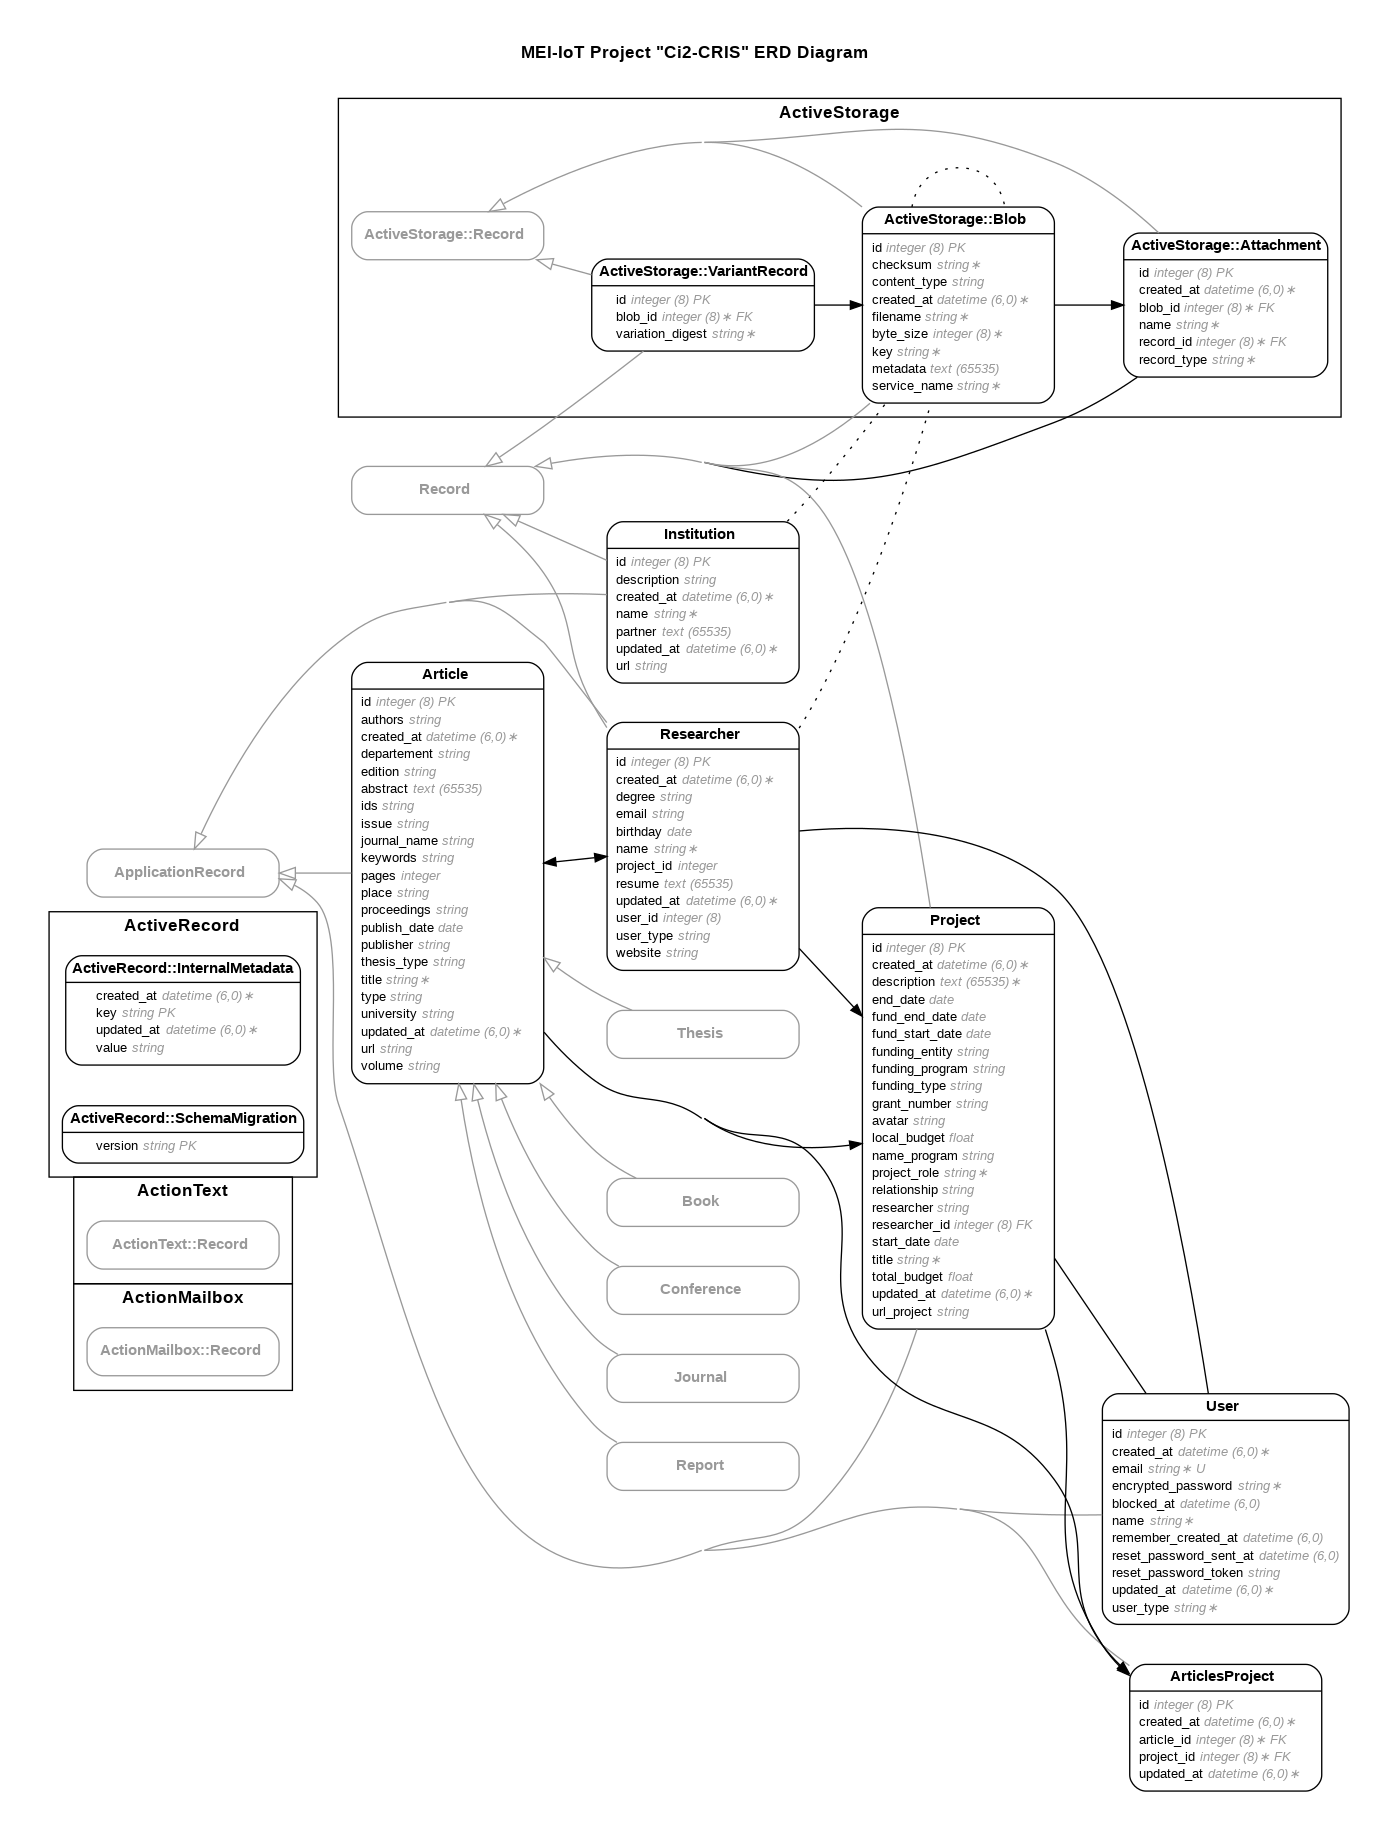
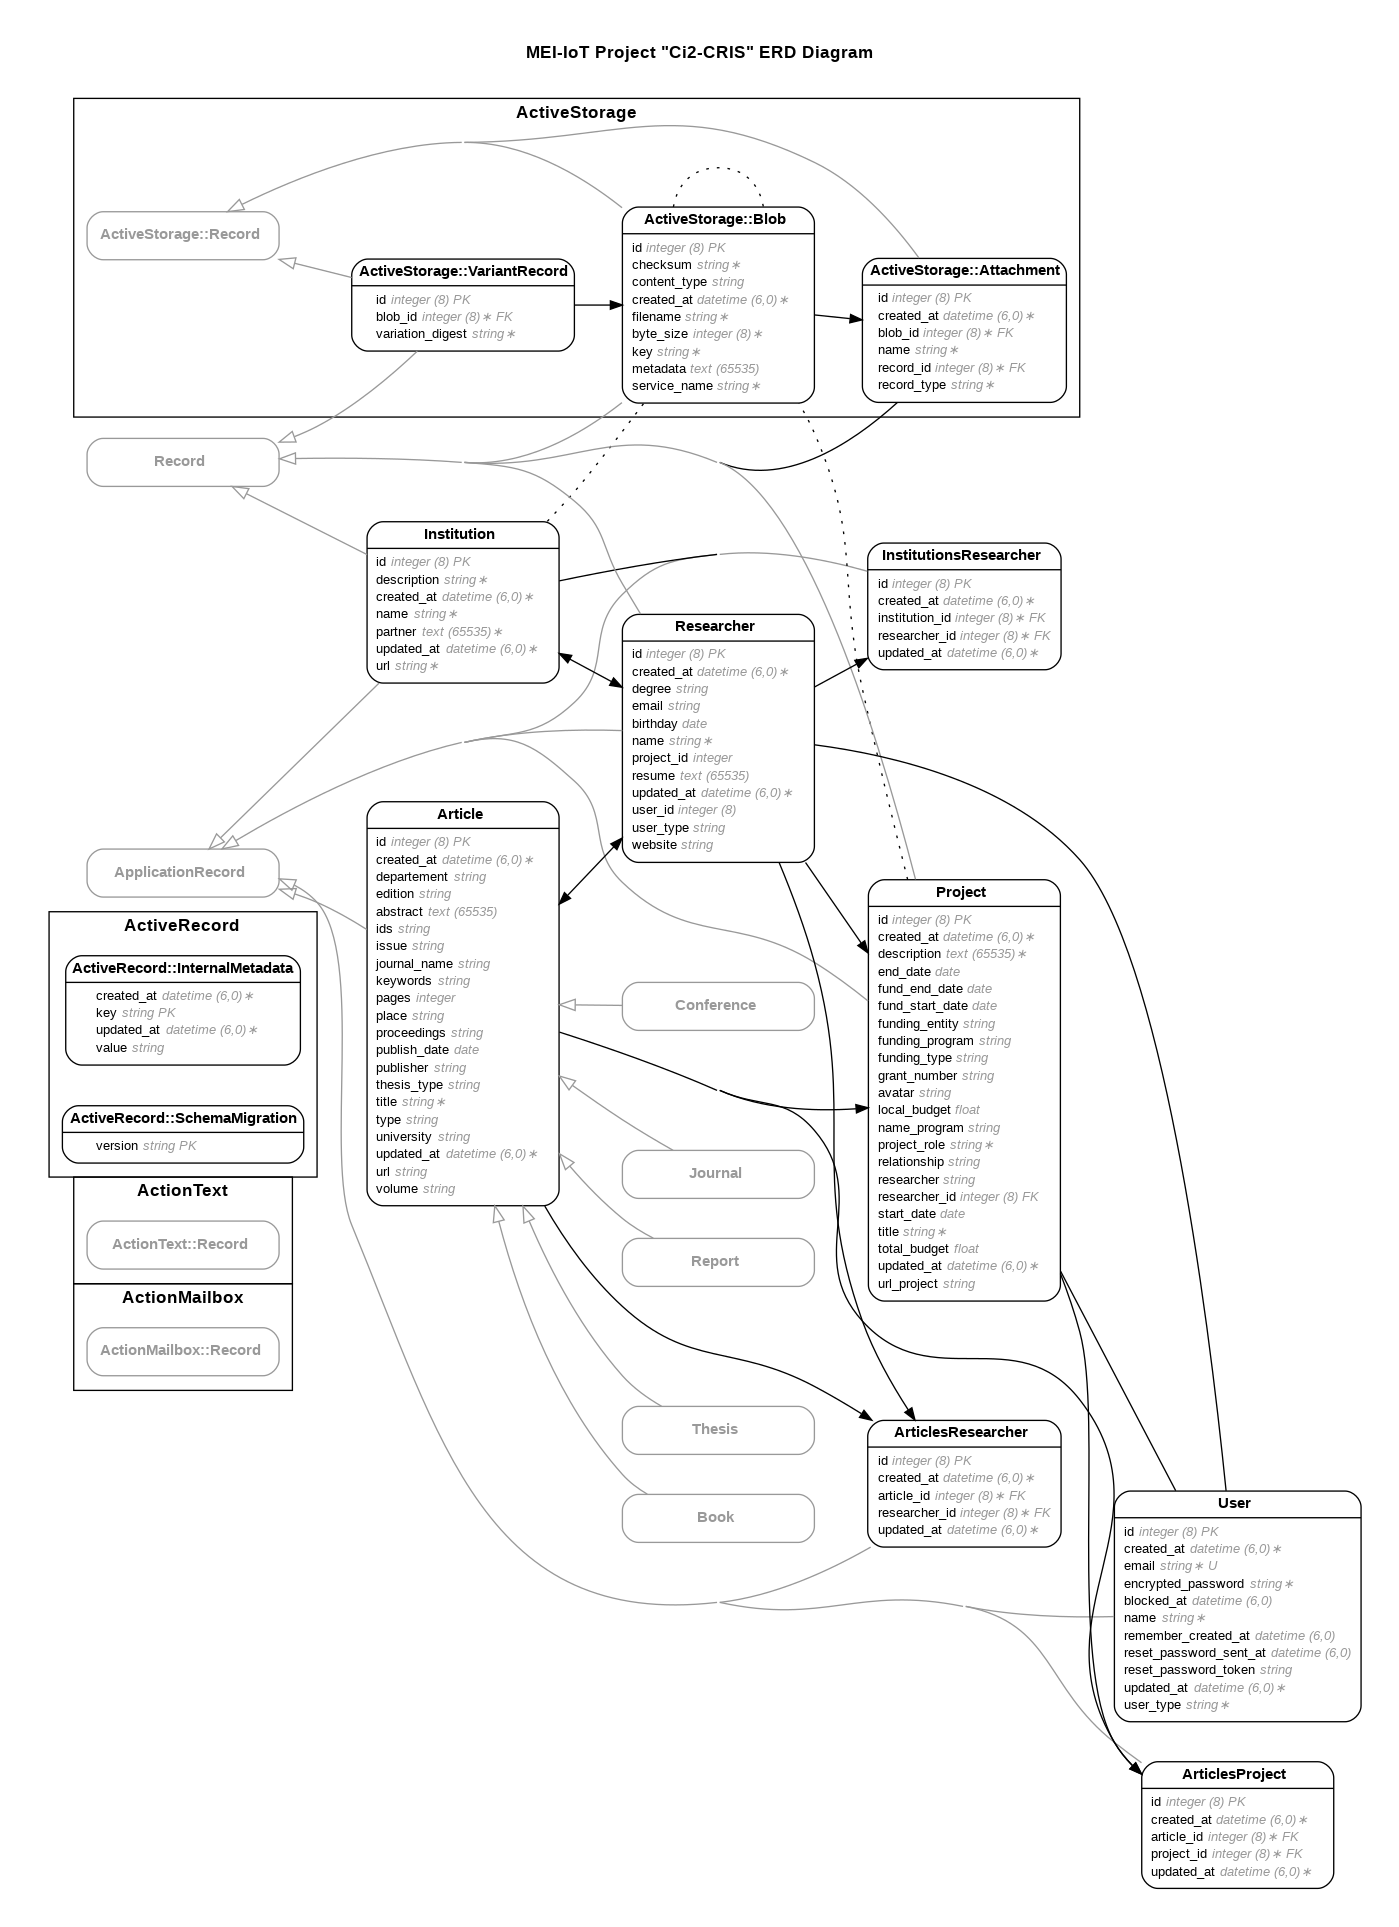
ci2 cris 78-tornar secção artigos visualmente consumível (#88)
* It is now possible to edit the different types of articles. Completed CRUDE actions

Merged main with Articles CRUDE

* Created association between institution and researcher.

* Updated gitignore

* Updated gitignore

* Made visual changes to article section

* Changed show article

* Finished section to list articles on project and researcher pages

diff --git a/1_src/app/controllers/researchers_controller.rb b/1_src/app/controllers/researchers_controller.rb
@@ -6,7 +6,7 @@ class ResearchersController < ApplicationController
     def create
         @researchers = Researcher.new(researcher_params)
         @researchers.avatar.attach(params[:avatar])
-        
+        associateInstitutionsToResearcher(params[:institution_ids])
             if @researchers.save
               redirect_to @researchers
             else
@@ -28,23 +28,36 @@ class ResearchersController < ApplicationController
         
     def update
             @researchers = Researcher.find(params[:id])
-        
+
+            if(params[:institution_ids].length != 0)
+              @researchers.institutions.clear
+              associateInstitutionsToResearcher(params[:institution_ids])
+            end
+
             if @researchers.update(researcher_params)
               redirect_to @researchers
             else
               render :edit
             end
     end
-          
+
+    def destroy
+      @researchers = Researcher.find(params[:id])
+      @researchers.destroy
+
+      redirect_to researchers_path
+    end
+
     private
         def researcher_params
             params.require(:researcher).permit(:name, :resume, :email, :website, :birthday, :degree, :avatar)
     end
-        
-    def destroy
-            @researchers = Researcher.find(params[:id])
-        @researchers.destroy
-        
-        redirect_to researchers_path
+
+    def associateInstitutionsToResearcher(ids)
+      ids.each do |id|
+        unless id.to_s.strip.empty?
+          @researchers.institutions << Institution.find(id)
+        end
+      end
     end
 end

diff --git a/1_src/db/schema.rb b/1_src/db/schema.rb
@@ -10,7 +10,7 @@
 #
 # It's strongly recommended that you check this file into your version control system.
 
-ActiveRecord::Schema[7.0].define(version: 2023_02_05_174258) do
+ActiveRecord::Schema[7.0].define(version: 2023_02_19_141457) do
   create_table "active_storage_attachments", charset: "utf8mb4", force: :cascade do |t|
     t.string "name", null: false
     t.string "record_type", null: false
@@ -89,6 +89,15 @@ ActiveRecord::Schema[7.0].define(version: 2023_02_05_174258) do
     t.datetime "updated_at", null: false
   end
 
+  create_table "institutions_researchers", charset: "utf8mb4", force: :cascade do |t|
+    t.bigint "institution_id", null: false
+    t.bigint "researcher_id", null: false
+    t.datetime "created_at", null: false
+    t.datetime "updated_at", null: false
+    t.index ["institution_id"], name: "index_institutions_researchers_on_institution_id"
+    t.index ["researcher_id"], name: "index_institutions_researchers_on_researcher_id"
+  end
+
   create_table "projects", charset: "utf8mb4", force: :cascade do |t|
     t.bigint "researcher_id"
     t.string "title"
@@ -150,6 +159,8 @@ ActiveRecord::Schema[7.0].define(version: 2023_02_05_174258) do
   add_foreign_key "articles_projects", "projects"
   add_foreign_key "articles_researchers", "articles"
   add_foreign_key "articles_researchers", "researchers"
+  add_foreign_key "institutions_researchers", "institutions"
+  add_foreign_key "institutions_researchers", "researchers"
   add_foreign_key "projects", "researchers"
   add_foreign_key "researchers", "users"
 end

diff --git a/1_src/db/seeds.rb b/1_src/db/seeds.rb
@@ -17,9 +17,13 @@ User.create([
     { user_type: "superadmin", name: "Shoaib Feda", email: "almarghulani@gmail.com", password: "password" }
 ]);
 
+institution = Institution.create(name: "IPT")
+institution = Institution.create(name: "IPL")
+institution = Institution.create(name: "IP da vida")
+
 book1 = Article.create(
                        title: "Cozer batatas: scientific review",
-                       abstract: "Uma análise científica sobre o contexto físico da cosedura de batatas",
+                       abstract: "Uma análise científica sobre o contexto físico da cozedura de batatas",
                        edition: "First edition",
                        publisher: "Porto editora",
                        type:"Book"

diff --git a/1_src/config/routes.rb b/1_src/config/routes.rb
@@ -10,15 +10,16 @@ Rails.application.routes.draw do
   resources :researchers
   resources :institutions
   # For details on the DSL available within this file, see https://guides.rubyonrails.org/routing.html
+  resources :contacts, only: [:new, :create]
+  get '/contacts', to: 'contacts#new', as: 'contact'
+  get 'contacts/sent'
+
+  # Defines the root path route ("/")
   namespace :admin do
     get '/', to: 'admin#index'
     resources :users
     post '/users/:id/block-unblock', to: 'users#block_unblock', as: 'block_unblock_user'
   end
-
-  resources :contacts, only: [:new, :create]
-  get '/contacts', to: 'contacts#new', as: 'contact'
-  get 'contacts/sent'
 
   # Defines the root path route ("/")
 

diff --git a/1_src/db/migrate/20230219141457_create_institutions_researchers.rb b/1_src/db/migrate/20230219141457_create_institutions_researchers.rb
@@ -1,0 +1,10 @@
+class CreateInstitutionsResearchers < ActiveRecord::Migration[7.0]
+  def change
+    create_table :institutions_researchers do |t|
+      t.references :institution, null: false, foreign_key: true
+      t.references :researcher, null: false, foreign_key: true
+
+      t.timestamps
+    end
+  end
+end

diff --git a/1_src/app/models/institution.rb b/1_src/app/models/institution.rb
@@ -1,4 +1,7 @@
 class Institution < ApplicationRecord
   has_one_attached :image
+  validates :name, presence: true
+
+  has_and_belongs_to_many :researchers
   validates :name, :description, :url, :image, :partner, presence: true
 end

diff --git a/1_src/app/models/researcher.rb b/1_src/app/models/researcher.rb
@@ -5,4 +5,5 @@ class Researcher < ApplicationRecord
     has_one_attached :avatar
     Degree = ['Licence', 'Master', 'Doctorate']
     has_and_belongs_to_many :articles
+    has_and_belongs_to_many :institutions
 end 

diff --git a/1_src/test/models/institutions_researcher_test.rb b/1_src/test/models/institutions_researcher_test.rb
@@ -1,0 +1,7 @@
+require "test_helper"
+
+class InstitutionsResearcherTest < ActiveSupport::TestCase
+  # test "the truth" do
+  #   assert true
+  # end
+end

diff --git a/1_src/app/models/article.rb b/1_src/app/models/article.rb
@@ -4,3 +4,4 @@ class Article < ApplicationRecord
     has_and_belongs_to_many :projects
     has_and_belongs_to_many :researchers
 end
+

diff --git a/1_src/app/models/institutions_researcher.rb b/1_src/app/models/institutions_researcher.rb
@@ -1,0 +1,4 @@
+class InstitutionsResearcher < ApplicationRecord
+  belongs_to :institution
+  belongs_to :researcher
+end
